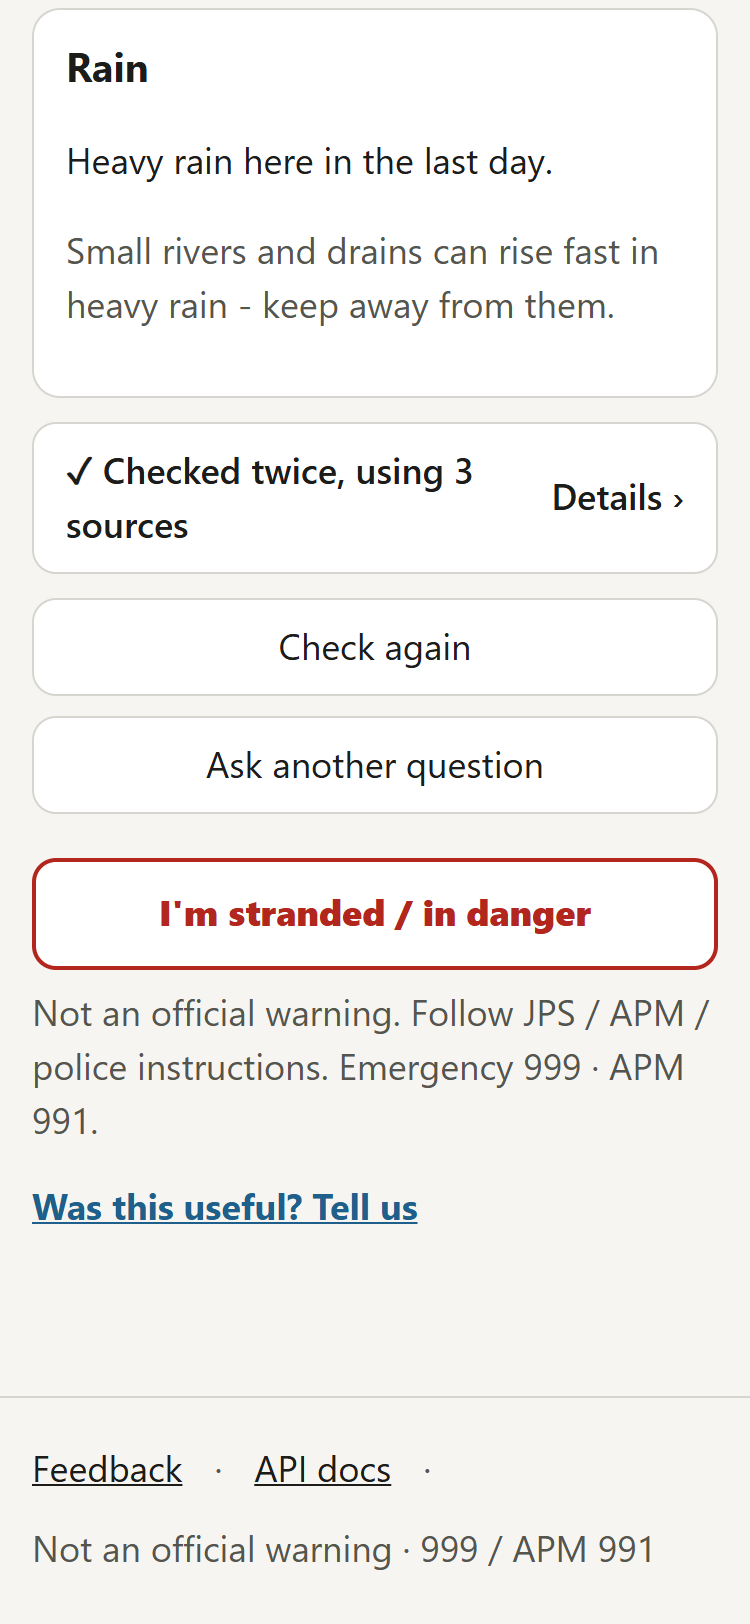
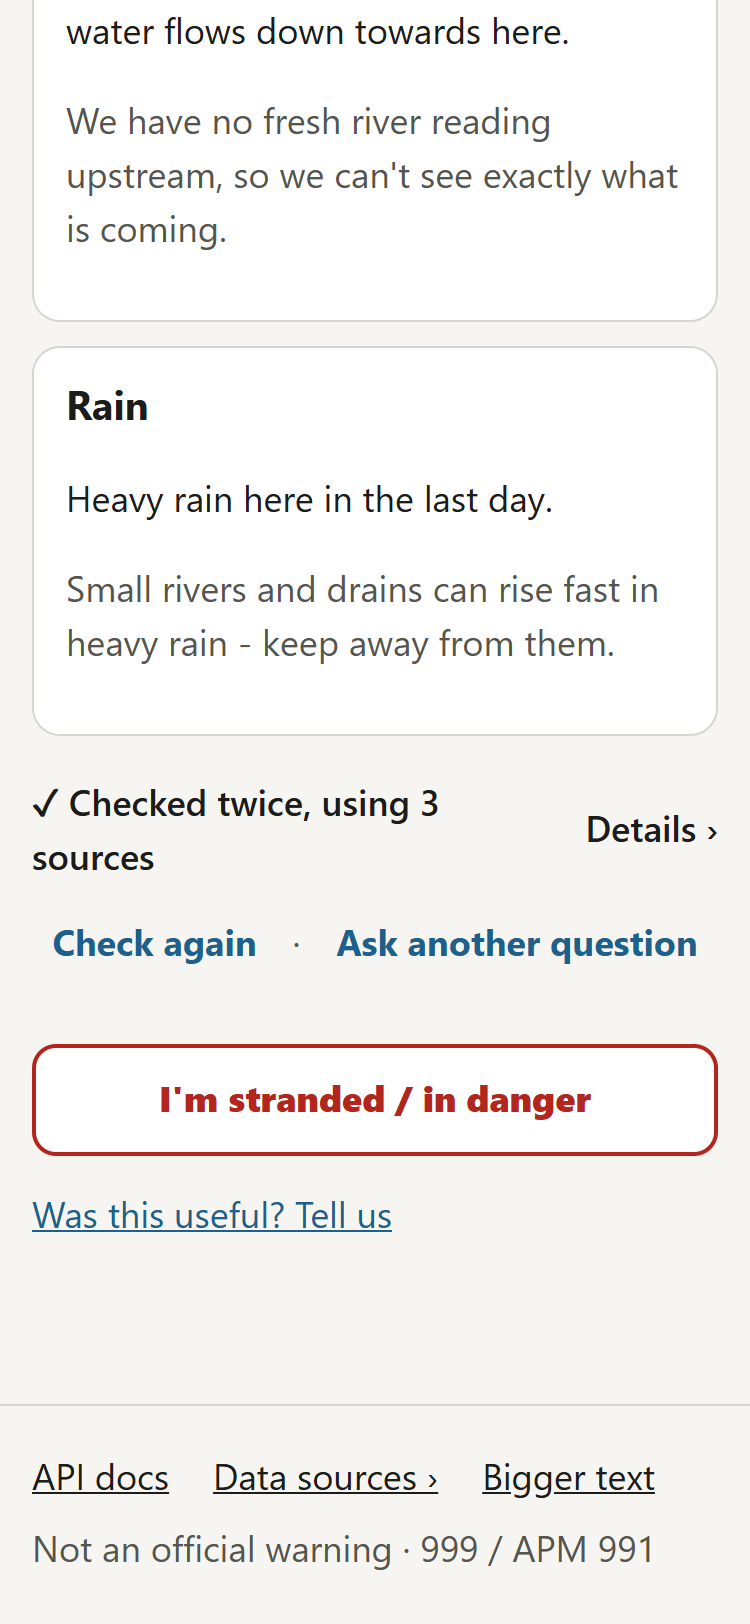
fix: B-96 part 1 design critique: replay moment as plain text + Change link, answer end as text links, Details a plain line, disclaimer once (footer), data-source credits on /sources ("Data sources ›" in every footer), footer without dangling separators + "Bigger text", technical log ▾/▴, BM "rakama
Local before commit: 1066 passed, 13 skipped; evals 41/41.

diff --git a/app/web/index.html b/app/web/index.html
@@ -57,6 +57,7 @@
   a { color: var(--accent); }
   [hidden] { display: none !important; }
   .card { background: var(--card); border: 1px solid var(--line); border-radius: 14px; padding: 14px 16px; margin: 12px 0; }
+  .moment-line { color: var(--muted); margin: 0 0 4px; }        /* B-96: plain grey text, never a dashed pill */
   .chip { display: inline-block; border: 2px dashed var(--muted); border-radius: 999px; padding: 2px 12px; font-weight: 700;
           color: var(--muted); }
   /* the replay moment (demo) */
@@ -175,8 +176,9 @@
   #s-home footer a { display: inline-flex; align-items: center; min-height: 44px; }   /* B-96: 44 px taps */
   .i30-links { display: grid; gap: 0; margin: 8px 0 4px; }
   .i30-links a, #a-useful a { display: inline-flex; align-items: center; min-height: 44px; font-weight: 700; }
+  #a-useful a { font-weight: 400; }                                   /* B-96: small, plain text */
   .other-head { font-size: 1.2rem; margin: 22px 0 8px; }
-  .links-row { display: flex; flex-wrap: wrap; justify-content: center; gap: 0 20px; margin: 0 0 6px; }
+  .links-row { display: flex; flex-wrap: wrap; justify-content: center; gap: 0 14px; margin: 0 0 6px; }
   #a-whybox { margin: 4px 0 8px; }
   .trail { margin: 0; padding-left: 1.3em; display: grid; gap: 8px; }
   .tech { margin-top: 12px; }
@@ -191,7 +193,9 @@
   .rows b { font-weight: 700; }
   .sub { color: var(--muted); }
   .actions { display: grid; grid-template-columns: 1fr; gap: 10px; margin: 12px 0; }
-  .strip { width: 100%; justify-content: space-between; text-align: left; font-weight: 600; }
+  .strip { width: 100%; justify-content: space-between; text-align: left; font-weight: 600;
+           border: 0; background: transparent; padding: 8px 0; }                 /* B-96: a plain line, no box */
+  .links-row .sep { display: inline-flex; align-items: center; color: var(--muted); }
   .strip > span:last-child { white-space: nowrap; margin-left: 12px; }      /* "Details ›" never wraps */
   .levelbar { position: relative; height: 26px; border-radius: 8px; margin: 34px 0 8px;
               background: linear-gradient(90deg, var(--v-normal) 0 var(--a), var(--v-watch) var(--a) var(--w),
@@ -360,16 +364,8 @@
     <p id="privacy" class="note" data-t="privacy" hidden></p>
   </form>
   <button class="sos outline" type="button" id="sos" data-t="sos"></button>
-  <footer>
-    <p data-t="footer"></p>
-    <p data-t="credits_lead"></p>
-    <p><a href="https://publicinfobanjir.water.gov.my/">JPS Infobanjir</a> ·
-       <a href="https://data.gov.my/">data.gov.my</a> (MetMalaysia) ·
-       <a href="https://open-meteo.com/">Open-Meteo</a> (<a href="https://creativecommons.org/licenses/by/4.0/">CC BY 4.0</a>) ·
-       © OpenStreetMap contributors (ODbL)</p>
-    <p data-t="credits_replay"></p>
-    <select id="mode" hidden aria-hidden="true" tabindex="-1"></select><!-- the chosen data; set by the moment chips -->
-  </footer>
+  <!-- B-96: the disclaimer is the frame footer's (once per page); the data-source credits are on /sources -->
+  <select id="mode" hidden aria-hidden="true" tabindex="-1"></select><!-- the chosen data; set by the moment chips -->
 </section>
 
 <!-- 2. Waiting -->
@@ -391,8 +387,8 @@
 
 <!-- 3. Answer -->
 <section id="s-answer" hidden>
-  <p id="a-label" hidden><span class="chip" id="a-label-text"></span>
-    <button type="button" class="linkish" id="a-change" data-t="change" hidden></button></p>
+  <p id="a-label" class="moment-line" hidden><span id="a-label-text"></span><span id="a-change-dot" aria-hidden="true"
+     hidden> · </span><button type="button" class="linkish" id="a-change" data-t="change" hidden></button></p>
   <p class="place" id="a-place"></p>
   <!-- v2 (Cowork blueprint 24 Oct): level word + "Level n of 4" + ONE action line; never colour alone -->
   <div class="verdict" id="a-badge" role="group"></div>
@@ -413,7 +409,7 @@
     <button type="button" class="linkish" id="a-why-open" aria-expanded="false" aria-controls="a-trail-box"
             data-t="why_open"></button>
     <div class="card" id="a-trail-box" hidden><ol class="trail" id="a-trail"></ol>
-      <details class="tech"><summary data-t="tech_log"></summary><ol class="tech-log" id="a-tech" lang="en"></ol></details></div>
+      <details class="tech" id="a-tech-box"><summary id="a-tech-sum" data-t="tech_log"></summary><ol class="tech-log" id="a-tech" lang="en"></ol></details></div>
   </div>
   <div id="a-rows">
     <div class="card" id="a-river-box"><h2 data-t="river_here"></h2><div class="river"><div id="a-post"></div>
@@ -441,10 +437,9 @@
   </div>
   <div class="card" id="a-plain" hidden><p class="share-text" id="a-plain-text" style="margin:0"></p>
     <div class="towns" id="a-choices" style="margin-top:12px"></div></div>
-  <button type="button" class="wide" id="a-check" data-t="check_again" style="margin-top:12px"></button>
-  <button type="button" class="wide" id="a-again" data-t="again" style="margin-top:10px"></button>
+  <p class="links-row" id="a-end"><button type="button" class="linkish" id="a-check" data-t="check_again"></button>
+    <span class="sep" aria-hidden="true">·</span><button type="button" class="linkish" id="a-again" data-t="again"></button></p>
   <button type="button" class="sos outline" id="a-sos" data-t="sos"></button>
-  <p class="note" data-t="disclaimer"></p>
   <p class="note" id="a-useful" hidden><a href="/feedback" data-t="useful"></a></p>
 </section>
 
@@ -530,7 +525,8 @@ const UI = {
     i30_start: "Start: Rantau Panjang at the Nov 2024 flood peak", i30_scenes: "Test it yourself: 7 scenes ›",
     i30_how: "How it works: agents, a live run, the API ›", other_place: "Or check another place",
     why_open: "Why this answer? See how the agents decided ›", why_close: "Hide how the agents decided",
-    tech_log: "Show technical log", useful: "Was this useful? Tell us",
+    tech_log: "Show technical log ▾", tech_hide: "Hide technical log ▴", useful: "Was this useful? Tell us",
+    replay_of: "Replay of",
     ai_failed: "AI step not used", fallbacks: "AI steps replaced by code in this run",
     no_rain: "No rain figure for this time.", busy: "VEDA is answering another question - try again in a minute.",
     empty_question: "Ask a question about a place in Kelantan.", question_too_long: "Please keep the question under 500 characters.",
@@ -594,9 +590,10 @@ const UI = {
     checks: "{n} semakan kod oleh Penyemak",
     i30_line: "VEDA menjawab soalan ini untuk Kelantan. Beberapa ejen AI menyemak kerja satu sama lain, dan setiap langkah direkodkan.",
     i30_start: "Mula: Rantau Panjang semasa kemuncak banjir Nov 2024", i30_scenes: "Uji sendiri: 7 senario ›",
-    i30_how: "Cara VEDA berfungsi: ejen, larian langsung, API ›", other_place: "Atau semak tempat lain",
+    i30_how: "Cara VEDA berfungsi: ejen, rakaman sebenar, API ›", other_place: "Atau semak tempat lain",
     why_open: "Kenapa jawapan ini? Lihat cara ejen membuat keputusan ›", why_close: "Sembunyikan cara ejen membuat keputusan",
-    tech_log: "Tunjuk log teknikal", useful: "Adakah ini berguna? Beritahu kami",
+    tech_log: "Tunjuk log teknikal ▾", tech_hide: "Sembunyikan log teknikal ▴", useful: "Adakah ini berguna? Beritahu kami",
+    replay_of: "Ulang tayang",
     ai_failed: "Langkah AI tidak digunakan", fallbacks: "Langkah AI yang diganti dengan kod",
     no_rain: "Tiada angka hujan untuk masa ini.", busy: "VEDA sedang menjawab soalan lain - sila cuba semula sebentar lagi.",
     empty_question: "Sila tanya tentang satu tempat di Kelantan.", question_too_long: "Sila pastikan soalan kurang daripada 500 aksara.",
@@ -661,6 +658,8 @@ const escBm = (s) => lang === "ms" ? esc(s).replace(EN_IN_BM, (w) => `<i lang="e
 
 function show(id) {
   ["s-home", "s-wait", "s-answer", "s-share", "s-sos", "s-how"].forEach((s) => { $(s).hidden = s !== id; });
+  // B-96: one link per destination - the answer's own feedback line replaces the footer's Feedback link there
+  document.querySelectorAll('.vf-foot a[href="/feedback"]').forEach((a) => { a.hidden = id === "s-answer" && publicDemo; });
   $("err").hidden = true;
   window.scrollTo(0, 0);
 }
@@ -727,7 +726,7 @@ function renderMoment() {
 }
 function momentLabel() {   // the answer screen's "Replay · 27 Nov 2024, 7:30 pm · Change", from the moment asked about
   const d = DATA.find((x) => x.v === askedMode) || {};
-  if (d.k === "past" && d.full) return `${t("replay_short")} · ${d.full[lang]}`;
+  if (d.k === "past" && d.full) return `${t("replay_of")} ${d.full[lang]}`;
   if (d.k === "madeup") return `${t("madeup_scene")} · ${d.what[lang]}`;
   return null;
 }
@@ -1002,6 +1001,7 @@ function renderAnswer() {
   const moment = v.label && momentLabel();      // Cowork 24 Oct: "Replay · 27 Nov 2024, 7:30 pm · Change"
   if (v.label) $("a-label-text").textContent = moment || v.label[lang];
   $("a-change").hidden = !moment || $("moment").hidden;
+  $("a-change-dot").hidden = $("a-change").hidden;
   $("a-place").textContent = v.place || "";
   $("a-badge").className = "verdict v-" + v.verdict;
   $("a-badge").setAttribute("aria-label", `${v.headline[lang]}. ${v.level_text[lang]}`);
@@ -1168,6 +1168,7 @@ $("a-strip").addEventListener("click", () => {
 $("a-share").addEventListener("click", () => { stopSpeaking(); renderShare(); show("s-share"); });
 $("a-listen").addEventListener("click", listen);
 $("a-why-open").addEventListener("click", () => toggle($("a-why-open"), $("a-trail-box"), "why_close", "why_open"));
+$("a-tech-box").addEventListener("toggle", () => { $("a-tech-sum").textContent = t($("a-tech-box").open ? "tech_hide" : "tech_log"); });
 $("a-check").addEventListener("click", () => { stopSpeaking(); ask(lastQuestion, (result && result.view && result.view.place) || ""); });
 // B3: re-ask in the page's language - the standard question for this place, written in that language
 $("a-expl-recheck").addEventListener("click", () => {

diff --git a/app/web/sources.html b/app/web/sources.html
@@ -1,0 +1,45 @@
+<!doctype html>
+<html lang="en">
+<head>
+<meta charset="utf-8">
+<meta name="viewport" content="width=device-width, initial-scale=1">
+<title>VEDA · Data sources</title>
+<link rel="icon" href="data:,">
+<style>
+  :root { --bg: #f4f3ef; --card: #ffffff; --fg: #1c1c1a; --muted: #55554f; --line: #d8d6cf; --accent: #1f5e8c;
+          --on-accent: #ffffff; color-scheme: light dark; }
+  @media (prefers-color-scheme: dark) {
+    :root { --bg: #151514; --card: #1f1f1d; --fg: #eeeeea; --muted: #b9b8b0; --line: #3a3a36; --accent: #8cc4ec;
+            --on-accent: #151514; }
+  }
+  html { font-size: 18px; } html.big { font-size: 22px; }
+  body { margin: 0; background: var(--bg); color: var(--fg); font: 1rem/1.5 system-ui, -apple-system, "Segoe UI", sans-serif; }
+  main { max-width: 760px; margin: 0 auto; padding: 16px 16px 40px; }
+  h1 { font-size: 1.5rem; margin: 8px 0 12px; }
+  ul { padding-left: 1.2em; }
+  li { margin: 6px 0; }
+  a { color: var(--accent); }
+  li a { display: inline-flex; align-items: center; min-height: 44px; }
+</style>
+</head>
+<body>
+<!--VEDA:TOP-->
+<main>
+  <!-- B-96 fix round (Cowork 25 Oct): the data-source credits and licences, reachable from every page's footer -->
+  <h1 data-vf-en="Data sources" data-vf-ms="Sumber data">Data sources</h1>
+  <p data-vf-en="River levels: Jabatan Pengairan dan Saliran (JPS) Malaysia, read live on the machine running VEDA and used for non-commercial public-safety research. JPS readings are never redistributed."
+     data-vf-ms="Paras sungai: Jabatan Pengairan dan Saliran (JPS) Malaysia, dibaca secara langsung di komputer yang menjalankan VEDA dan digunakan untuk penyelidikan keselamatan awam bukan komersial. Bacaan JPS tidak pernah diedarkan semula.">River levels: Jabatan Pengairan dan Saliran (JPS) Malaysia, read live on the machine running VEDA and used for non-commercial public-safety research. JPS readings are never redistributed.</p>
+  <ul>
+    <li><a href="https://publicinfobanjir.water.gov.my/">JPS Infobanjir</a> · <span data-vf-en="river levels and their Normal / Alert / Warning / Danger marks" data-vf-ms="paras sungai dan tanda Normal / Waspada / Amaran / Bahaya">river levels and their Normal / Alert / Warning / Danger marks</span></li>
+    <li><a href="https://data.gov.my/">data.gov.my</a> · <span data-vf-en="MetMalaysia forecasts and warnings, and the flood-warning feed" data-vf-ms="ramalan dan amaran MetMalaysia, dan suapan amaran banjir">MetMalaysia forecasts and warnings, and the flood-warning feed</span></li>
+    <li><a href="https://open-meteo.com/">Open-Meteo</a> · <span data-vf-en="rain, under" data-vf-ms="hujan, di bawah">rain, under</span> <a href="https://creativecommons.org/licenses/by/4.0/">CC BY 4.0</a></li>
+    <li><a href="https://www.openstreetmap.org/copyright">© OpenStreetMap contributors</a> · <span data-vf-en="rivers, coast, places, schools and halls, bridges - under the ODbL" data-vf-ms="sungai, pantai, tempat, sekolah dan dewan, jambatan - di bawah ODbL">rivers, coast, places, schools and halls, bridges - under the ODbL</span></li>
+  </ul>
+  <p data-vf-en="Past flood replay (Nov 2024): readings as reported by Bernama, Harian Metro and Kosmo, citing JPS - each one cited with its link. Made-up test scenes use invented readings and say so."
+     data-vf-ms="Ulang tayang banjir lalu (Nov 2024): bacaan seperti yang dilaporkan oleh Bernama, Harian Metro dan Kosmo, memetik JPS - setiap satu dengan pautannya. Senario ujian rekaan menggunakan bacaan rekaan dan menyatakannya.">Past flood replay (Nov 2024): readings as reported by Bernama, Harian Metro and Kosmo, citing JPS - each one cited with its link. Made-up test scenes use invented readings and say so.</p>
+  <p data-vf-en="The full list with licences and terms is in the project README (Data sources and licences)."
+     data-vf-ms="Senarai penuh dengan lesen dan syarat ada dalam README projek (Data sources and licences).">The full list with licences and terms is in the project README (Data sources and licences).</p>
+</main>
+<!--VEDA:FOOT-->
+</body>
+</html>

diff --git a/app/web/live.html b/app/web/live.html
@@ -20,10 +20,9 @@
   * { box-sizing: border-box; }
   html { font-size: 18px; }
   body { margin: 0; background: var(--bg); color: var(--fg); font: 1rem/1.45 system-ui, -apple-system, "Segoe UI", Roboto, sans-serif; }
-  header { display: flex; flex-wrap: wrap; gap: 8px 16px; align-items: center; padding: 10px 16px; background: var(--card);
+  .lhead { display: flex; flex-wrap: wrap; gap: 8px 16px; align-items: center; padding: 10px 16px; background: var(--card);
            border-bottom: 1px solid var(--line); position: sticky; top: 0; z-index: 2; }
-  header h1 { font-size: 1.2rem; margin: 0 auto 0 0; }
-  header a { color: var(--accent); }
+  .lhead h1 { font-size: 1.2rem; margin: 0 auto 0 0; }
   button, select { font: inherit; min-height: 44px; padding: 8px 12px; border-radius: 10px; border: 1px solid var(--line);
                    background: var(--card); color: var(--fg); cursor: pointer; }
   button[aria-pressed="true"] { background: var(--accent); color: var(--on-accent); border-color: var(--accent); }
@@ -65,14 +64,17 @@
   @media (prefers-reduced-motion: reduce) { .who li.working::before { animation: none; } }
   .note { color: var(--muted); }
   [hidden] { display: none !important; }
+  main, aside { min-width: 0; }   /* B-96: no sideways scroll on a phone */
+  #rec { max-width: 100%; }
 </style>
 </head>
 <body>
-<header>
+<!--VEDA:TOP-->
+<!-- B-96: the shared frame above (its VEDA link goes home); this page's own heading below -->
+<div class="lhead">
   <h1>VEDA · live log</h1>
   <span class="note" id="h-note">The question itself is never shown here.</span>
-  <a href="/">← Ask a question</a>
-</header>
+</div>
 <div class="wrap">
   <main>
     <div class="controls">
@@ -109,6 +111,9 @@ function applyHeadLang() {
   if (Object.values(HEAD).some((x) => x.waiting === $("status").textContent)) $("status").textContent = h.waiting;
 }
 window.addEventListener("storage", (e) => { if (e.key === "veda.lang") applyHeadLang(); });
+// B-96: the frame's EN | BM switches this page in place
+window.vedaSetLang = (l) => { try { localStorage.setItem("veda.lang", l); } catch (e) { /* private window */ }
+  applyHeadLang(); if (window.vedaFrameLang) window.vedaFrameLang(l); };
 const AGENTS = [  // name in the trace -> colour token
   ["System", "--c-system"], ["Coordinator", "--c-coordinator"], ["Data & Reconciler", "--c-data"],
   ["Forecast", "--c-forecast"], ["Critic", "--c-critic"], ["Nemotron 3.5 Super VL", "--c-nemotron"]];
@@ -277,5 +282,6 @@ if (params.get("run")) {  // one run from logs/ (this computer only), replayed f
 }
 applyHeadLang();
 </script>
+<!--VEDA:FOOT-->
 </body>
 </html>

diff --git a/app/web/frame/frame.css b/app/web/frame/frame.css
@@ -19,8 +19,13 @@
                                                box-shadow: inset 0 -4px 0 var(--accent, #1f5e8c); }
 .vf-strip { margin: 0; padding: 4px 16px; font-size: 1rem; background: #1c1c1a; color: #fff; }
 .vf-foot { margin: 32px 0 0; padding: 14px 16px 24px; border-top: 1px solid var(--line, #d8d6cf);
-           display: flex; flex-wrap: wrap; gap: 4px 16px; align-items: center; font-size: 1rem; color: var(--muted, #55554f); }
-.vf-foot a { display: inline-flex; align-items: center; min-height: 44px; color: var(--fg, #1c1c1a); }
+           display: flex; flex-wrap: wrap; gap: 0 22px; align-items: center; font-size: 1rem; color: var(--muted, #55554f); }
+.vf-foot a, .vf-foot .vf-big { display: inline-flex; align-items: center; min-height: 44px; color: var(--fg, #1c1c1a); }
+.vf-foot .vf-big { font: inherit; background: none; border: 0; padding: 0; text-decoration: underline; cursor: pointer; }
+.vf-foot .vf-big[aria-pressed="true"] { font-weight: 800; }
+.vf-foot .vf-notice { flex-basis: 100%; }
+html.big { font-size: 22px; }
 /* desktop: the bar, the strip and the footer line up with the page's content (max 1200 px, 32 px gutter) */
 @media (min-width: 1024px) { .vf-top, .vf-strip, .vf-foot { padding-left: max(32px, calc((100% - 1200px) / 2 + 32px));
                                                            padding-right: max(32px, calc((100% - 1200px) / 2 + 32px)); } }
+.vf-top [hidden], .vf-foot [hidden] { display: none !important; }

diff --git a/app/web/frame/frame.js b/app/web/frame/frame.js
@@ -15,6 +15,15 @@
   }
   window.vedaFrameLang = words;                      // the page calls this when it changes language itself
   words(current());
+  // "Bigger text": the one saved text-size setting every page shares (localStorage "veda.big")
+  const big = (on) => { document.documentElement.classList.toggle("big", on);
+    document.querySelectorAll(".vf-big").forEach((b) => b.setAttribute("aria-pressed", String(on))); };
+  big(store.get("veda.big") === "1");
+  document.querySelectorAll(".vf-big").forEach((b) => b.addEventListener("click", () => {
+    const on = !document.documentElement.classList.contains("big");
+    store.set("veda.big", on ? "1" : "0");
+    big(on);
+  }));
   if (typeof window.vedaSetLang === "function") return;      // the page binds the buttons itself (index.html)
   document.querySelectorAll(".vf-lang button").forEach((b) => b.addEventListener("click", () => {
     const l = b.dataset.lang;

diff --git a/app/frame.py b/app/frame.py
@@ -18,6 +18,8 @@ STRIP = ("Demo · past flood replay · not an official warning", "Demo · ulang 
 FEEDBACK = ("Feedback", "Maklum balas")
 API_DOCS = ("API docs", "Dokumen API")
 NOTICE = ("Not an official warning · 999 / APM 991", "Bukan amaran rasmi · 999 / APM 991")
+SOURCES = ("Data sources ›", "Sumber data ›")
+BIGGER = ("Bigger text", "Teks lebih besar")
 
 
 def _words(pair):
@@ -42,11 +44,14 @@ def top(page, demo=None):
 
 
 def foot(public_demo=None):
-    """The footer: Feedback (public demo only) · API docs · the one-line notice."""
+    """The footer: Feedback (public demo only) · API docs · Data sources · Bigger text · the one-line notice. Items are
+    spaced by CSS, never by a written separator (none is left dangling when the line wraps on a phone)."""
     public_demo = config.demo_mode() if public_demo is None else public_demo
     items = ([f'<a href="/feedback" {_words(FEEDBACK)}</a>'] if public_demo else []) + [
-        f'<a href="/api/docs" {_words(API_DOCS)}</a>', f'<span {_words(NOTICE)}</span>']
-    return f'<footer class="vf-foot">{" · ".join(items)}</footer><script src="/frame.js" defer></script>'
+        f'<a href="/api/docs" {_words(API_DOCS)}</a>', f'<a href="/sources" {_words(SOURCES)}</a>',
+        f'<button type="button" class="vf-big" aria-pressed="false" {_words(BIGGER)}</button>',
+        f'<span class="vf-notice" {_words(NOTICE)}</span>']
+    return f'<footer class="vf-foot">{"".join(items)}</footer><script src="/frame.js" defer></script>'
 
 
 def framed(html, page):

diff --git a/tests/test_web_b96.py b/tests/test_web_b96.py
@@ -29,5 +29,16 @@ def test_answer_one_filled_button_listen_link_and_why():
     assert 'id="a-wa"' in actions and 'id="a-listen"' not in actions
     links = re.search(r'<p class="links-row" id="a-links">(.*?)</p>', PAGE, re.S).group(1)
     assert 'id="a-share"' in links and 'id="a-listen"' in links and links.count('class="linkish"') == 2
-    assert 'id="a-why-open"' in PAGE and '<details class="tech"><summary data-t="tech_log">' in PAGE
+    assert 'id="a-why-open"' in PAGE and '<summary id="a-tech-sum" data-t="tech_log">' in PAGE
+    assert 'tech_log: "Show technical log ▾", tech_hide: "Hide technical log ▴"' in PAGE
+
+
+def test_fix_round_plain_replay_line_end_links_and_one_disclaimer():
+    assert '<p id="a-label" class="moment-line" hidden>' in PAGE and 'class="chip"' not in PAGE
+    assert 'replay_of: "Replay of"' in PAGE
+    end = re.search(r'<p class="links-row" id="a-end">(.*?)</p>', PAGE, re.S).group(1)
+    assert 'id="a-check"' in end and 'id="a-again"' in end and end.count('class="linkish"') == 2
+    assert 'data-t="disclaimer"' in PAGE.split('id="s-sos"')[1]                      # only the emergency screen keeps it
+    assert PAGE.split('id="s-sos"')[0].count('data-t="disclaimer"') == 0 and 'data-t="footer"' not in PAGE
+    assert 'i30_how: "Cara VEDA berfungsi: ejen, rakaman sebenar, API ›"' in PAGE
     assert 'useful: "Was this useful? Tell us"' in PAGE and '$("a-useful").hidden = !publicDemo;' in PAGE

diff --git a/tests/test_api.py b/tests/test_api.py
@@ -112,8 +112,11 @@ def test_web_page_is_served(client):
     r = client.get("/")
     assert r.status_code == 200 and "VEDA - Kelantan flood check" in r.text and "/run/stream" in r.text
     assert not re.search(r"<(script|link|img|iframe)[^>]+(src|href)=\"https?://", r.text)   # nothing loaded from outside
-    assert "CC BY 4.0" in r.text and "open-meteo.com" in r.text           # audit 23 Oct: data credits
-    assert "Jabatan Pengairan dan Saliran (JPS) Malaysia" in r.text and "non-commercial" in r.text   # JPS credit
+    # audit 23 Oct: data credits - B-96: on /sources, linked from every page's footer
+    assert 'href="/sources"' in r.text
+    src = client.get("/sources").text
+    assert "CC BY 4.0" in src and "open-meteo.com" in src
+    assert "Jabatan Pengairan dan Saliran (JPS) Malaysia" in src and "non-commercial" in src   # JPS credit
     assert "Mohon jangan taip nama, IC" in r.text and "Your question is not sent to any AI model" in r.text   # BM + EN
     assert "Soalan anda tidak dihantar kepada mana-mana model AI" in r.text
 

diff --git a/app/main.py b/app/main.py
@@ -396,7 +396,7 @@ def _local(request):
 
 @app.get("/live", response_class=HTMLResponse)
 def live_page():
-    return LIVE_PAGE.read_text(encoding="utf-8")
+    return frame.framed(LIVE_PAGE.read_text(encoding="utf-8"), "live")
 
 
 @app.get("/how-it-works", response_class=HTMLResponse)
@@ -409,6 +409,12 @@ def how_page():
 def judges_page():
     """B-96: the page moved to /how-it-works."""
     return RedirectResponse("/how-it-works", status_code=301)
+
+
+@app.get("/sources", response_class=HTMLResponse)
+def sources_page():
+    """B-96: the data sources and their licences (the footer's "Data sources" on every page)."""
+    return frame.framed((config.ROOT / "app" / "web" / "sources.html").read_text(encoding="utf-8"), "sources")
 
 
 FRAME_DIR = config.ROOT / "app" / "web" / "frame"

diff --git a/docs/DECISIONS.md b/docs/DECISIONS.md
@@ -249,3 +249,4 @@ _One line per decision: date · decision · why / where. Newest at the bottom. A
 | 2026-10-24 | Cowork Part 8 design polish: send / listen under WHAT TO DO, Check again at the bottom, Details never wraps, one agent tag per step, gauge post labels spaced (2014 label kept clear of Now), no empty box under Normal; demo-only line 'New here? Read a scene first, then test VEDA: Scenes ›' placed UNDER the town list (at the top it pushed the Tumpat row off the first phone screen with the demo banner). |
 | 2026-10-24 | B-93 compliance pass (organiser docs 24 Oct): every AI call's trace line carries requested / served model, receipt, duration, outcome, purpose and fallback (failed calls too); run_end counts AI calls ('no AI calls' offline). README: Responsible AI section, dated World Model test results, data built inside the window with sources; evidence of the night's live runs committed (no river readings). No behaviour change. |
 | 2026-10-25 | Cowork B-96 part 1 (judge-first site, wireframes v3): shared frame on every page; one filled button per screen (selected chips / EN|BM outlined, not filled); demo Home 'VEDA in 30 seconds' + Start; answer 'Why this answer?' uses Session B's trail.how_lines (one function for answers and scenes); /judges -> /how-it-works (301). 'Aa' (bigger text) removed from the bar (nothing else in the bar) - Cowork to decide whether it returns elsewhere. |
+| 2026-10-25 | Cowork B-96 fix round: replay moment as plain grey text ('Replay of ... · Change'); answer end as text links ('Check again · Ask another question'), Details strip a plain line; disclaimer once per page (frame footer; the emergency screen keeps its own); data-source credits on /sources (footer 'Data sources ›' on every page); footer spaced by CSS (no dangling separator) + 'Bigger text' (shared veda.big); technical log ▾/▴; /live in the frame; one feedback link per screen (the answer's own line hides the footer's there; Session B drops 'Was this clear?'). |

diff --git a/docs/CODEMAP.md b/docs/CODEMAP.md
@@ -241,7 +241,7 @@ _Regenerated by `python scripts/codemap.py` (runs in the pre-commit hook). Purpo
 **Purpose:** B-96 shared frame for every VEDA page: top bar (VEDA · Test scenes · How it works · EN|BM), the demo strip and the  
 **Called by:** `app.main`, `app.scenes`
 - `def top(page, demo)` — The top bar (+ the demo strip in offline sample mode). page: which link is the current page (bold).
-- `def foot(public_demo)` — The footer: Feedback (public demo only) · API docs · the one-line notice.
+- `def foot(public_demo)` — The footer: Feedback (public demo only) · API docs · Data sources · Bigger text · the one-line notice. Items are
 - `def framed(html, page)` — A page with the frame in place of its two markers (unchanged when it has none).
 
 ## `app.gazetteer` — [app/gazetteer.py](../app/gazetteer.py)
@@ -295,6 +295,7 @@ _Regenerated by `python scripts/codemap.py` (runs in the pre-commit hook). Purpo
 - `def live_page()` — _(no docstring)_
 - `def how_page()` — B-96 (was /judges, B-90): how VEDA works + the published recorded live runs replayed step by step.
 - `def judges_page()` — B-96: the page moved to /how-it-works.
+- `def sources_page()` — B-96: the data sources and their licences (the footer's "Data sources" on every page).
 - `def frame_css()` — _(no docstring)_
 - `def frame_js()` — _(no docstring)_
 - `def scenes_page(tail, request)` — B-91 Scenes test page: /scenes, /scenes/<id>, /scenes/data.json, POST /scenes/<id>/check (app/scenes.py).
